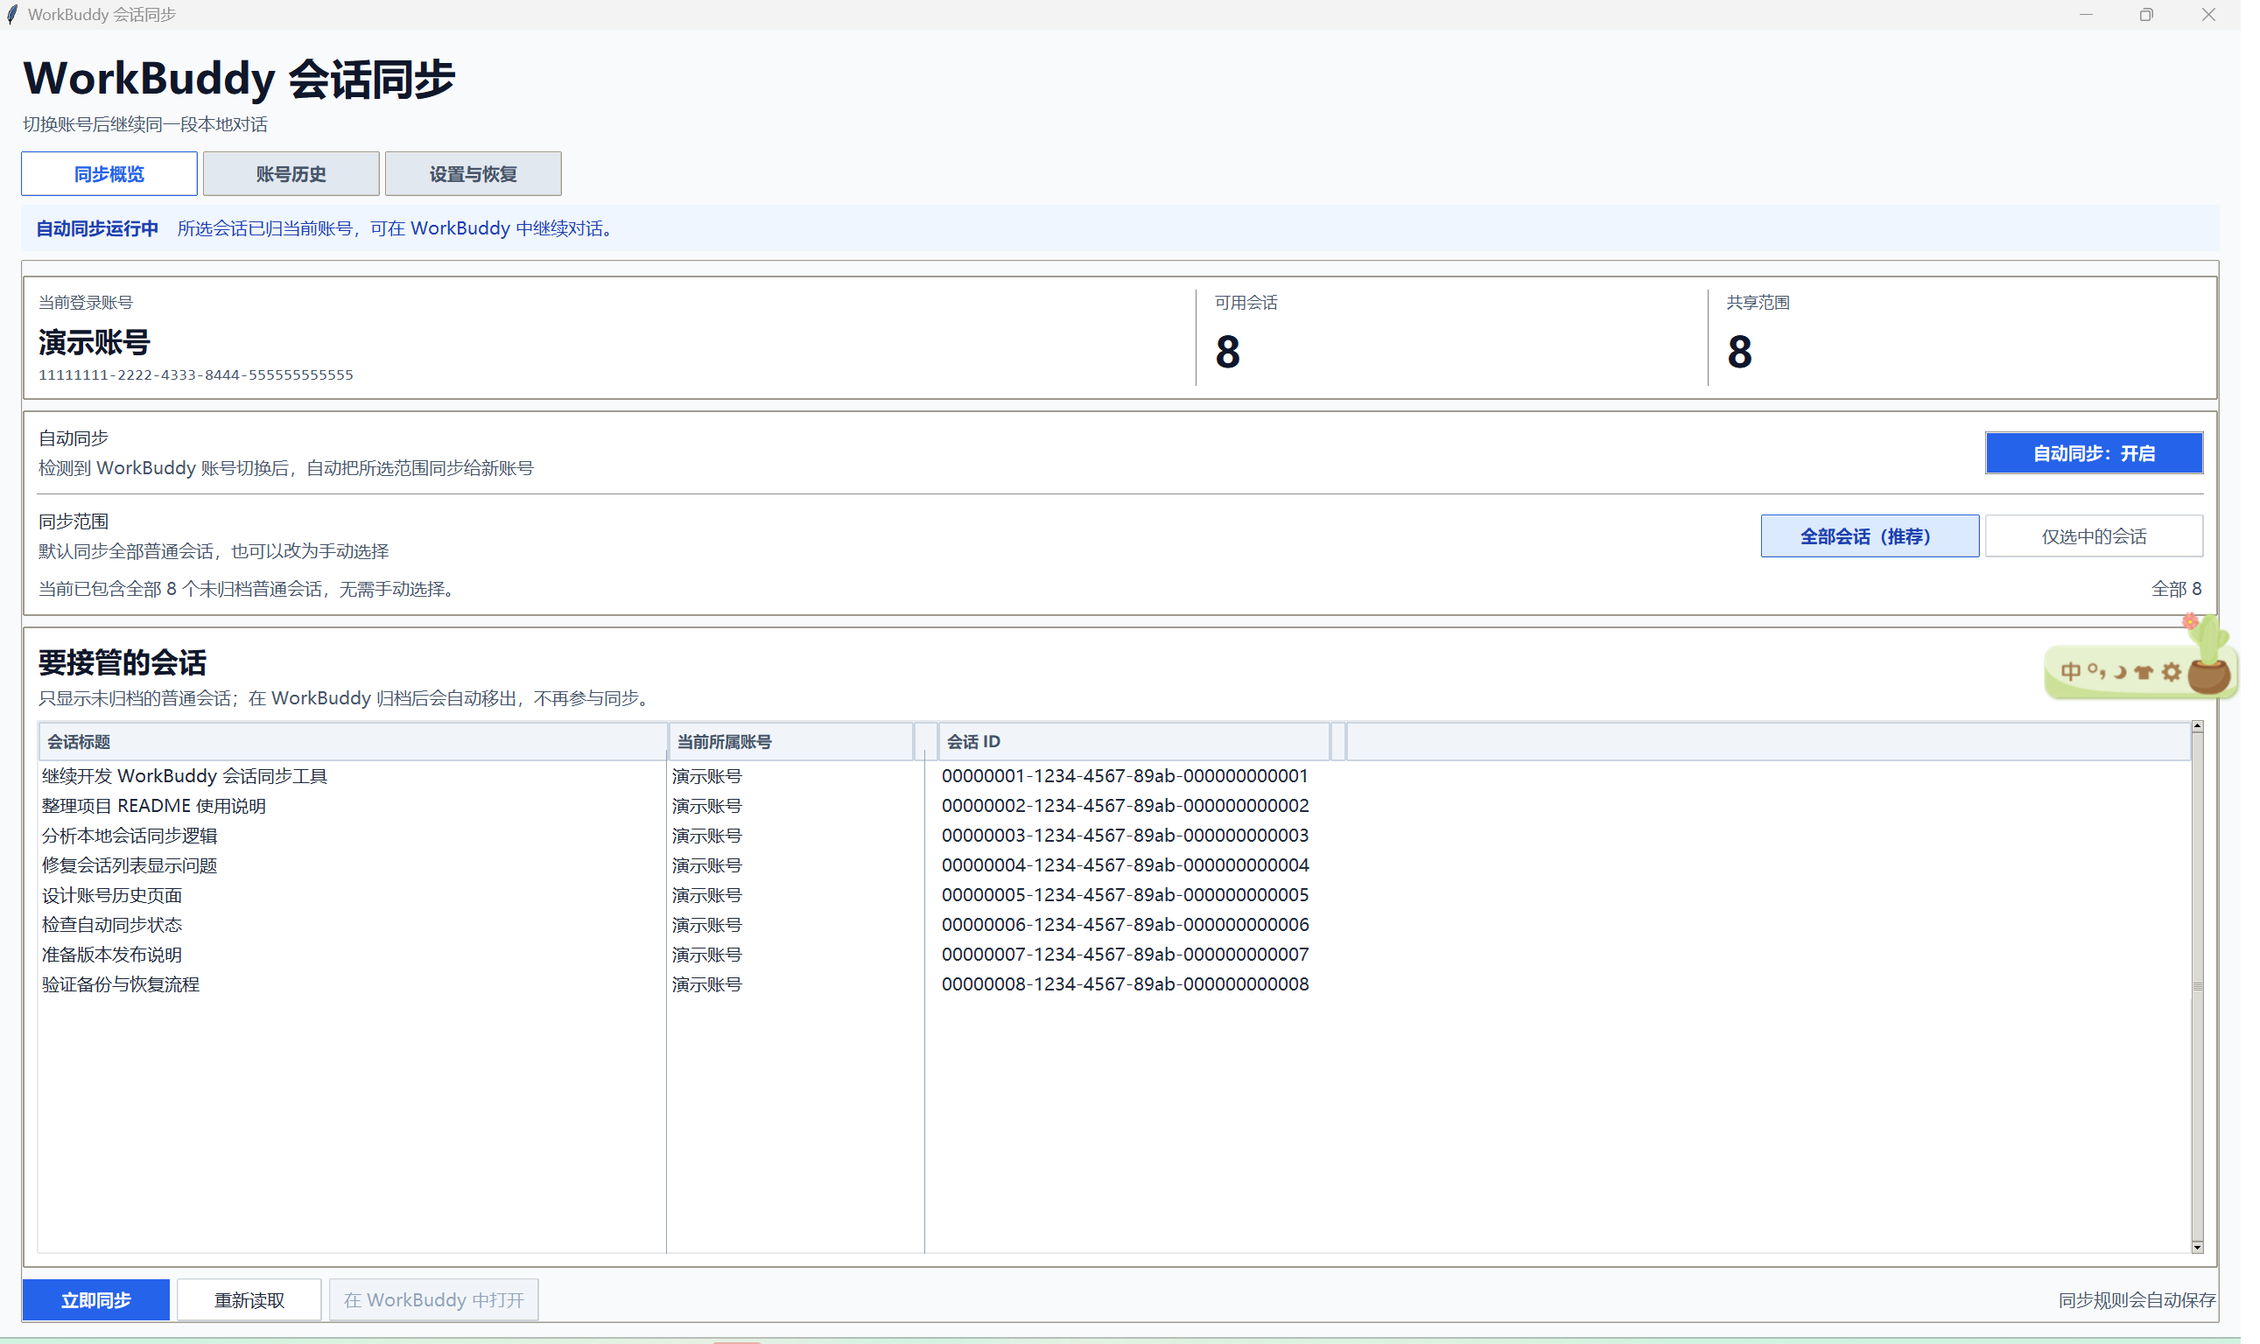
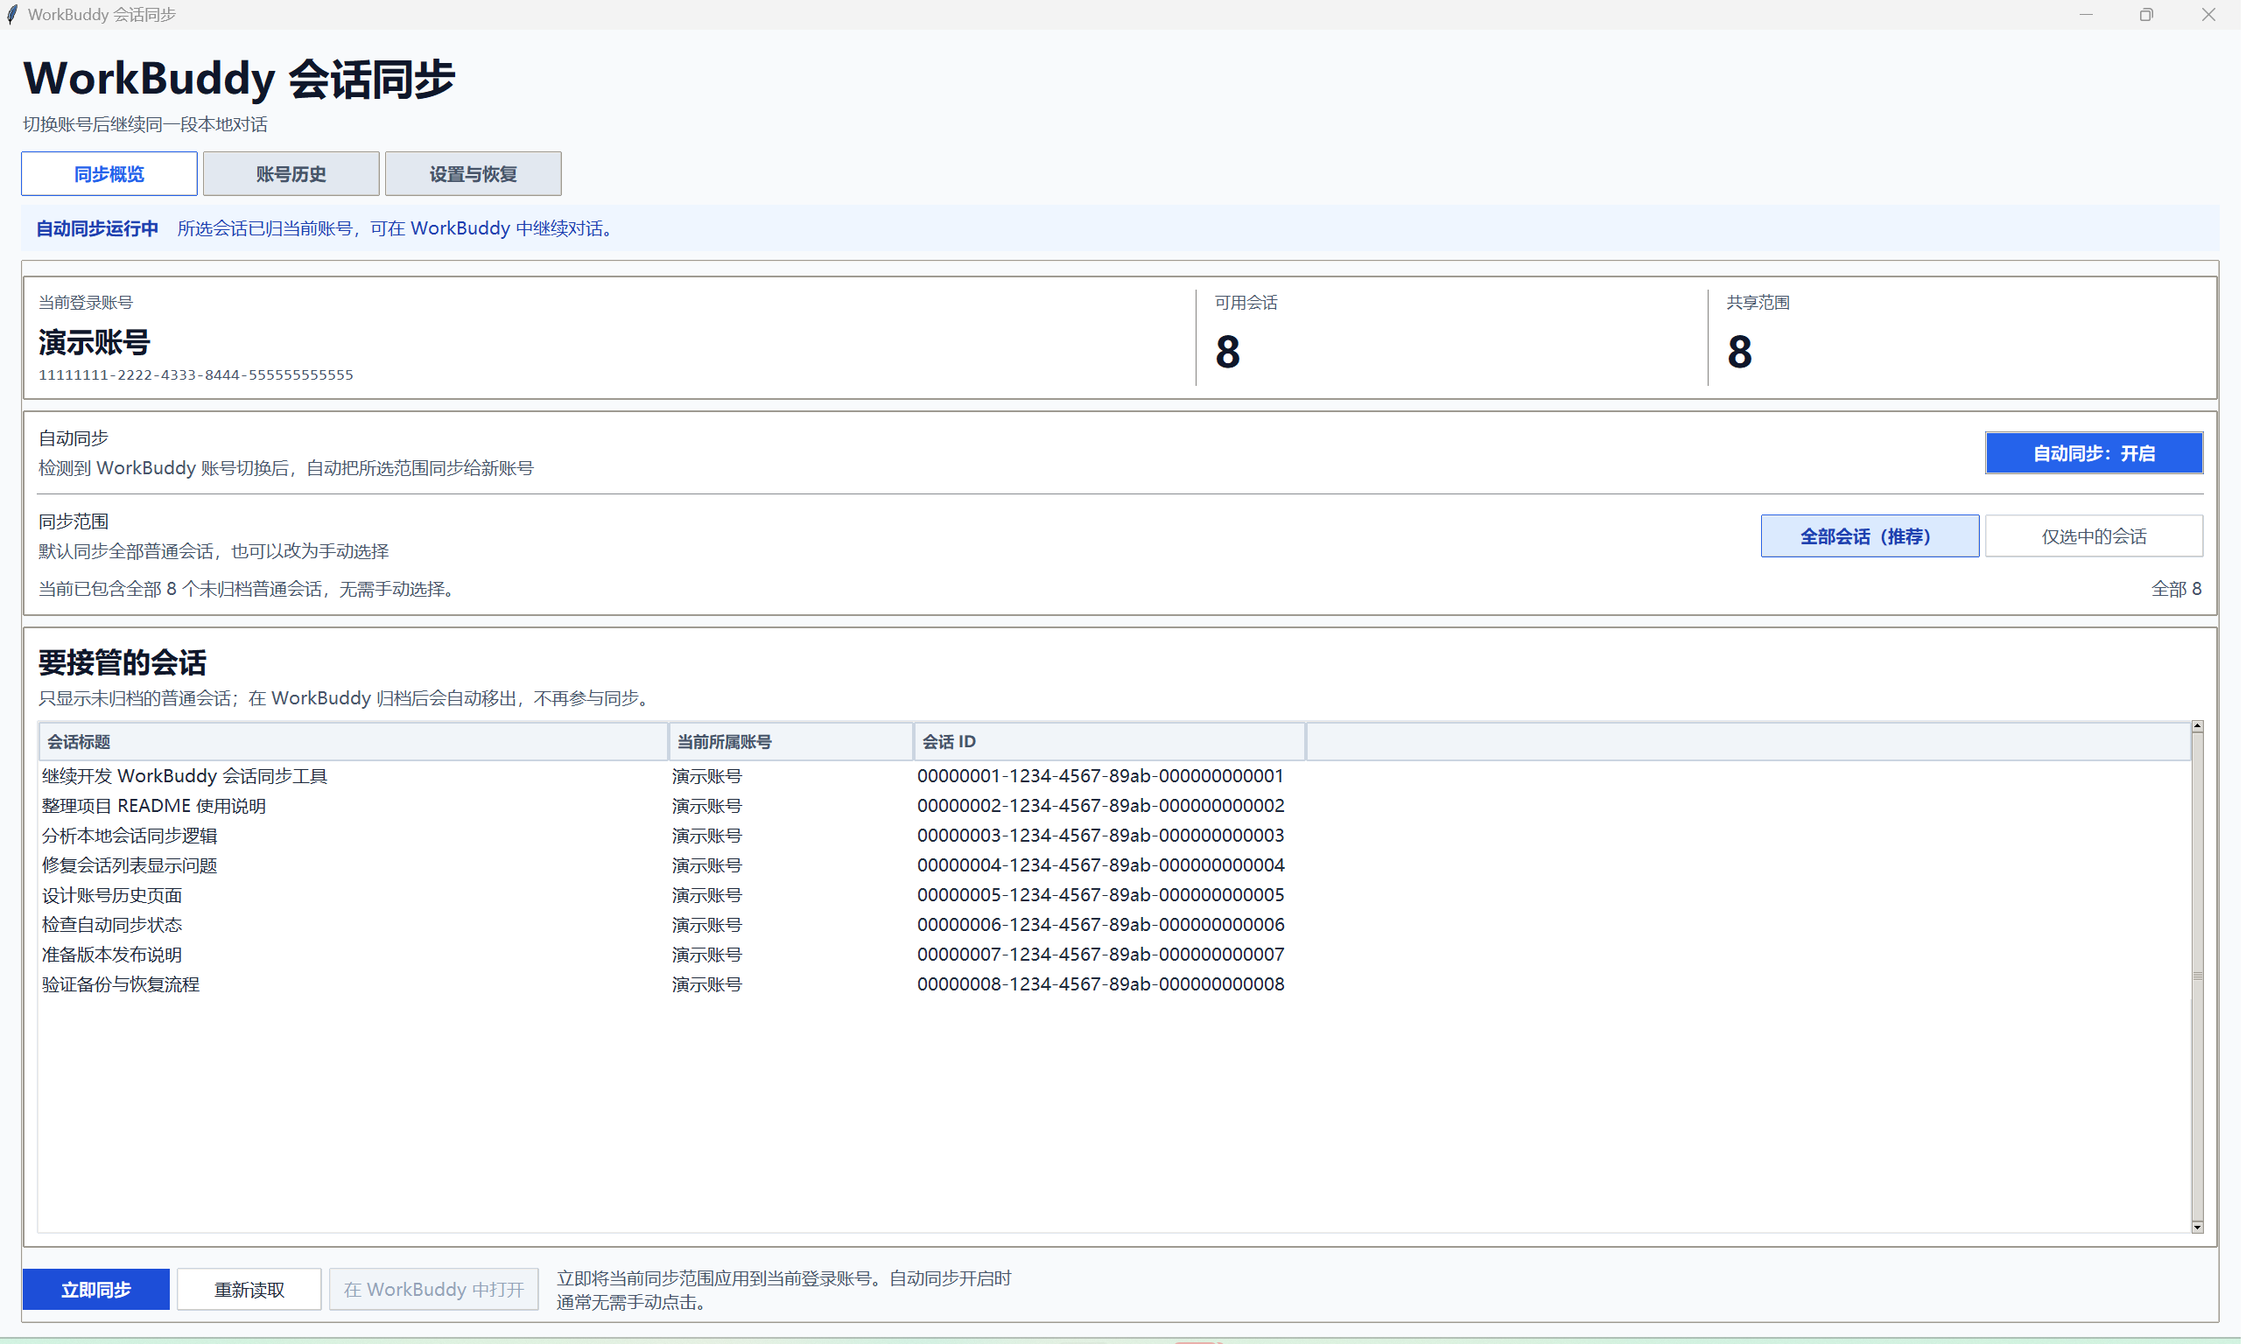
Redesign session table and inline action help

diff --git a/src/workbuddy_sync/desktop_ui.py b/src/workbuddy_sync/desktop_ui.py
@@ -21,7 +21,7 @@ BORDER = '#E2E8F0'
 WARNING = '#B91C1C'
 UI_FONT = 'Microsoft YaHei UI'
 MONO_FONT = 'Consolas'
-TOOLTIP_GAP = 7
+ACTION_HELP_DEFAULT = '鼠标停留在按钮上查看说明 · 同步规则会自动保存'
 
 MESSAGES = {
     'disabled': '自动同步未开启。可以先预览，再同步一次。',
@@ -41,13 +41,6 @@ def short_id(value: str) -> str:
 
 def display_title(value: str | None) -> str:
     return ' '.join(value.split()) if value else '未命名会话'
-
-
-def tooltip_y(anchor_y, anchor_height, tip_height, screen_height):
-    below = anchor_y + anchor_height + TOOLTIP_GAP
-    if below + tip_height <= screen_height:
-        return below
-    return max(0, anchor_y - tip_height - TOOLTIP_GAP)
 
 
 def enable_windows_dpi_awareness():
@@ -107,41 +100,6 @@ class CellTooltip:
             self.tip.destroy()
             self.tip = None
         self.key = None
-
-
-class WidgetTooltip:
-    def __init__(self, widget, text):
-        self.widget = widget
-        self.text = text
-        self.tip = None
-        widget.bind('<Enter>', self.show, add='+')
-        widget.bind('<Leave>', self.hide, add='+')
-        widget.bind('<FocusIn>', self.show, add='+')
-        widget.bind('<FocusOut>', self.hide, add='+')
-        widget.bind('<ButtonPress>', self.hide, add='+')
-
-    def show(self, _event=None):
-        self.hide()
-        self.tip = tk.Toplevel(self.widget)
-        self.tip.wm_overrideredirect(True)
-        self.tip.withdraw()
-        tk.Label(
-            self.tip, text=self.text, background='#0F172A', foreground='#FFFFFF',
-            padx=10, pady=7, justify='left', wraplength=360, font=(UI_FONT, 9),
-        ).pack()
-        self.tip.update_idletasks()
-        x = self.widget.winfo_rootx()
-        y = tooltip_y(
-            self.widget.winfo_rooty(), self.widget.winfo_height(),
-            self.tip.winfo_reqheight(), self.widget.winfo_screenheight(),
-        )
-        self.tip.wm_geometry(f'+{x}+{y}')
-        self.tip.deiconify()
-
-    def hide(self, _event=None):
-        if self.tip is not None:
-            self.tip.destroy()
-            self.tip = None
 
 
 class Window:
@@ -437,8 +395,7 @@ class Window:
         ).grid(row=1, column=0, sticky='w', pady=(4, 10))
         self.tree = ttk.Treeview(
             table_card,
-            columns=(
-                'selected', 'title', 'owner', 'owner_gap', 'id', 'right_pad', 'fill'),
+            columns=('selected', 'title', 'owner', 'id', 'fill'),
             show='headings',
             selectmode='browse', height=8,
         )
@@ -446,9 +403,7 @@ class Window:
             ('selected', '选择', 58, 58, False, 'center'),
             ('title', '会话标题', 500, 180, False, 'w'),
             ('owner', '当前所属账号', 280, 280, False, 'w'),
-            ('owner_gap', '', 28, 28, False, 'center'),
             ('id', '会话 ID', 440, 440, False, 'w'),
-            ('right_pad', '', 18, 18, False, 'center'),
             ('fill', '', 1, 1, False, 'center'),
         ]:
             self.tree.heading(key, text=title, anchor=anchor)
@@ -460,19 +415,12 @@ class Window:
         self.tree.configure(yscrollcommand=scrollbar.set)
         self.tree.bind('<Button-1>', self._on_tree_click, add='+')
         self.tree.bind('<B1-Motion>', self._block_table_resize, add='+')
-        self.tree.bind('<ButtonRelease-1>', self._schedule_table_dividers, add='+')
-        self.tree.bind('<Configure>', self._schedule_table_dividers, add='+')
-        self.table_dividers = [
-            tk.Frame(self.tree, background='#94A3B8', width=1) for _ in range(2)
-        ]
-        self.owner_id_divider = tk.Frame(
-            self.tree, background='#94A3B8', width=1)
-        self.table_dividers.append(self.owner_id_divider)
+        self.tree.bind('<Configure>', self._schedule_table_layout, add='+')
         CellTooltip(self.tree, self._main_tree_tooltip)
 
         actions = ttk.Frame(page, style='App.TFrame')
         actions.grid(row=3, column=0, sticky='ew', pady=(12, 0))
-        actions.columnconfigure(0, weight=1)
+        actions.columnconfigure(1, weight=1)
         action_buttons = ttk.Frame(actions, style='App.TFrame')
         action_buttons.grid(row=0, column=0, sticky='w')
         self.sync_button = ttk.Button(
@@ -488,21 +436,28 @@ class Window:
             style='Secondary.TButton',
         )
         self.open_button.pack(side='left', padx=(8, 0))
-        ttk.Label(
-            actions, text='同步规则会自动保存', style='Subtitle.TLabel',
-        ).grid(row=0, column=1, sticky='e', pady=9)
-        self.action_tooltips = {
-            self.sync_button: WidgetTooltip(
-                self.sync_button,
-                '立即将当前同步范围应用到当前登录账号。自动同步开启时通常无需手动点击。',
-            ),
-            self.refresh_button: WidgetTooltip(
-                self.refresh_button, '重新读取当前账号和会话列表，不会修改会话数据。',
-            ),
-            self.open_button: WidgetTooltip(
-                self.open_button, '打开列表中高亮的会话。按 Esc 可取消高亮。',
-            ),
+        self.action_help = tk.StringVar(value=ACTION_HELP_DEFAULT)
+        self.action_help_label = ttk.Label(
+            actions, textvariable=self.action_help, style='Subtitle.TLabel',
+            anchor='w', justify='left', wraplength=520,
+        )
+        self.action_help_label.grid(
+            row=0, column=1, sticky='ew', padx=(18, 0), pady=7)
+        action_help = {
+            self.sync_button: (
+                '立即将当前同步范围应用到当前登录账号。自动同步开启时通常无需手动点击。'),
+            self.refresh_button: '重新读取当前账号和会话列表，不会修改会话数据。',
+            self.open_button: '打开列表中高亮的会话。按 Esc 可取消高亮。',
         }
+        for button, help_text in action_help.items():
+            button.bind(
+                '<Enter>', lambda _event, text=help_text: self.action_help.set(text), add='+')
+            button.bind(
+                '<FocusIn>', lambda _event, text=help_text: self.action_help.set(text), add='+')
+            button.bind(
+                '<Leave>', lambda _event: self.action_help.set(ACTION_HELP_DEFAULT), add='+')
+            button.bind(
+                '<FocusOut>', lambda _event: self.action_help.set(ACTION_HELP_DEFAULT), add='+')
         self.tree.bind('<<TreeviewSelect>>', self._update_action_states, add='+')
         self.toggle_scope()
 
@@ -677,7 +632,7 @@ class Window:
                 owner_display = owner_name if owner_name else short_id(owner_id)
                 values = (
                     '☑' if session_id in self.selected_sessions else '☐',
-                    display_title(row['title']), owner_display, '', session_id, '', '',
+                    display_title(row['title']), owner_display, session_id, '',
                 )
                 if self.tree.exists(session_id):
                     self.tree.item(session_id, values=values)
@@ -762,10 +717,9 @@ class Window:
 
     def toggle_scope(self):
         columns = (
-            ('title', 'owner', 'owner_gap', 'id', 'right_pad', 'fill')
+            ('title', 'owner', 'id', 'fill')
             if self.all_sessions.get()
-            else (
-                'selected', 'title', 'owner', 'owner_gap', 'id', 'right_pad', 'fill')
+            else ('selected', 'title', 'owner', 'id', 'fill')
         )
         self.tree.configure(displaycolumns=columns)
         is_all = self.all_sessions.get()
@@ -782,7 +736,7 @@ class Window:
             self.select_all_button.pack(side='left')
             self.clear_selection_button.pack(side='left', padx=(6, 0))
         self._update_scope_summary(len(self.tree.get_children()))
-        self._schedule_table_dividers()
+        self._schedule_table_layout()
 
     def set_scope(self, all_sessions):
         self.all_sessions.set(all_sessions)
@@ -869,12 +823,11 @@ class Window:
         if self.tree.identify_region(event.x, event.y) == 'separator':
             return 'break'
 
-    def _schedule_table_dividers(self, _event=None):
+    def _schedule_table_layout(self, _event=None):
         self.root.after_idle(self._layout_session_table)
 
     def _layout_session_table(self):
         self._fit_session_table_columns()
-        self._position_table_dividers()
 
     def _fit_session_metadata_columns(self):
         font = tkfont.nametofont('TkDefaultFont', root=self.root)
@@ -900,31 +853,6 @@ class Window:
         fill_width = max(1, available_width - fixed_width - title_width)
         self.tree.column('title', width=title_width)
         self.tree.column('fill', width=fill_width)
-
-    def _position_table_dividers(self):
-        displayed = self.tree.tk.splitlist(self.tree.cget('displaycolumns'))
-        body_y = 34
-        body_height = max(1, self.tree.winfo_height() - body_y)
-        x = 0
-        standard_positions = []
-        owner_id_position = None
-        for column in displayed:
-            width = int(self.tree.column(column, 'width'))
-            if column in ('selected', 'title'):
-                standard_positions.append(x + width)
-            elif column == 'owner_gap':
-                owner_id_position = x + width // 2
-            x += width
-        for divider, position in zip(self.table_dividers[:2], standard_positions):
-            divider.place(
-                x=position - 1, y=body_y, width=1, height=body_height)
-            divider.lift()
-        for divider in self.table_dividers[len(standard_positions):2]:
-            divider.place_forget()
-        if owner_id_position is not None:
-            self.owner_id_divider.place(
-                x=owner_id_position, y=body_y, width=1, height=body_height)
-            self.owner_id_divider.lift()
 
     def _clear_session_highlight(self, _event=None):
         cleared = False

diff --git a/tests/test_app.py b/tests/test_app.py
@@ -153,7 +153,7 @@ def test_gui_navigation_has_stable_size_and_toggle_controls_have_no_x(sandbox, t
     assert window.all_scope_button.winfo_class() == 'TButton'
     assert window.all_scope_button.cget('style') == 'SegmentSelected.TButton'
     assert window.tree.cget('displaycolumns') == (
-        'title', 'owner', 'owner_gap', 'id', 'right_pad', 'fill')
+        'title', 'owner', 'id', 'fill')
 
     window.show_page(1)
 
@@ -285,7 +285,7 @@ def test_overview_scope_and_session_selection_save_immediately(sandbox, tk_root)
     assert api().Settings.load(path).session_ids == []
 
 
-def test_session_table_shows_full_ids_and_visible_column_dividers(sandbox, tk_root):
+def test_session_table_shows_full_ids_with_native_column_boundaries(sandbox, tk_root):
     gui = importlib.import_module('workbuddy_sync.gui')
     home, auth = setup_data(sandbox)
     session_id = '01e3e2ed-6cf0-4dba-a9a7-1234567890ab'
@@ -295,16 +295,10 @@ def test_session_table_shows_full_ids_and_visible_column_dividers(sandbox, tk_ro
     settings(sandbox, home, auth).save(path)
 
     window = gui.Window(tk_root, path)
-    tk_root.update_idletasks()
-    window._position_table_dividers()
 
     assert window.tree.set(session_id, 'id') == session_id
     assert int(window.tree.column('id', 'width')) >= 440
-    assert int(window.tree.column('right_pad', 'width')) >= 16
-    assert len(window.table_dividers) == 3
-    assert window.table_dividers[0].place_info()
-    assert window.owner_id_divider.place_info()
-    assert int(window.owner_id_divider.place_info()['y']) >= 30
+    assert tuple(window.tree.cget('displaycolumns'))[:3] == ('title', 'owner', 'id')
 
 
 def test_session_owner_column_shows_the_full_account_name(sandbox, tk_root):
@@ -320,22 +314,19 @@ def test_session_owner_column_shows_the_full_account_name(sandbox, tk_root):
     assert window.tree.set('s1', 'owner') == account_name
 
 
-def test_owner_and_session_id_columns_have_a_divided_gap(sandbox, tk_root):
+def test_owner_and_session_id_columns_are_adjacent_and_left_aligned(sandbox, tk_root):
     gui = importlib.import_module('workbuddy_sync.gui')
     home, auth = setup_data(sandbox)
     path = sandbox / 'settings.json'
     settings(sandbox, home, auth).save(path)
 
     window = gui.Window(tk_root, path)
-    tk_root.update_idletasks()
-    window._position_table_dividers()
 
     displayed = tuple(window.tree.cget('displaycolumns'))
     owner_index = displayed.index('owner')
-    assert displayed[owner_index + 1:owner_index + 3] == ('owner_gap', 'id')
-    assert int(window.tree.column('owner_gap', 'width')) >= 24
-    assert window.owner_id_divider.place_info()
-    assert window.owner_id_divider.cget('background') == '#94A3B8'
+    assert displayed[owner_index + 1] == 'id'
+    assert str(window.tree.heading('owner', 'anchor')) == 'w'
+    assert str(window.tree.heading('id', 'anchor')) == 'w'
 
 
 def test_session_metadata_columns_use_left_aligned_fixed_headers(sandbox, tk_root):
@@ -351,8 +342,7 @@ def test_session_metadata_columns_use_left_aligned_fixed_headers(sandbox, tk_roo
     assert window.tree.column('owner', 'stretch') == 0
     assert window.tree.column('id', 'stretch') == 0
     displayed = tuple(window.tree.cget('displaycolumns'))
-    assert displayed[displayed.index('id'):displayed.index('id') + 2] == (
-        'id', 'right_pad')
+    assert displayed[displayed.index('id'):displayed.index('id') + 2] == ('id', 'fill')
 
 
 def test_session_table_caps_title_width_and_uses_trailing_fill_space(sandbox, tk_root):
@@ -418,19 +408,11 @@ def test_action_buttons_show_help_on_hover(sandbox, tk_root):
     for button, help_text in expected.items():
         button.event_generate('<Enter>')
         tk_root.update()
-        tooltip = window.action_tooltips[button]
-        assert tooltip.tip is not None
-        assert tooltip.tip.winfo_children()[0].cget('text').startswith(help_text)
+        assert window.action_help.get().startswith(help_text)
+        assert window.action_help_label.winfo_manager() == 'grid'
         button.event_generate('<Leave>')
         tk_root.update()
-        assert tooltip.tip is None
-
-
-def test_tooltip_flips_above_when_below_would_leave_the_screen():
-    desktop_ui = importlib.import_module('workbuddy_sync.desktop_ui')
-
-    assert desktop_ui.tooltip_y(100, 40, 50, 800) == 147
-    assert desktop_ui.tooltip_y(760, 40, 50, 800) == 703
+        assert window.action_help.get() == '鼠标停留在按钮上查看说明 · 同步规则会自动保存'
 
 
 def test_restored_window_keeps_enough_room_for_the_session_table(sandbox, tk_root):

diff --git a/README.md b/README.md
@@ -120,7 +120,7 @@ flowchart LR
 - 当前准备同步多少个对话。
 - 自动同步是否开启。
 - 每个对话现在属于哪个账号，账号列优先完整显示账号名称。
-- 每个对话的完整会话 ID；账号与会话 ID 使用左对齐的只读列，中间保留留白和清晰分隔线。
+- 每个对话的完整会话 ID；标题、账号和会话 ID 使用连续的左对齐只读列，仅由原生表头边界区分。
 
 ### 账号历史
 
@@ -145,8 +145,8 @@ flowchart LR
 | 恢复归属 | 从备份恢复某次同步涉及的账号归属 | 是 |
 | 打开备份目录 | 打开本工具保存备份的位置 | 否 |
 
-鼠标停留在「立即同步」「重新读取」或「在 WorkBuddy 中打开」按钮上时，会显示该按钮的详细说明。
-窗口最大化且按钮靠近屏幕底部时，说明会自动显示在按钮上方，避免超出屏幕。
+鼠标停留在「立即同步」「重新读取」或「在 WorkBuddy 中打开」按钮上时，按钮右侧会直接显示完整说明；
+使用键盘把焦点移到按钮上也会显示。说明固定在窗口内部，不会被屏幕边缘或任务栏裁切。
 在会话列表中高亮一条会话后，可以按 `Esc` 取消高亮。
 
 窗口还原时会优先压缩会话标题列，保证账号名称和完整会话 ID 不被挤出窗口；窗口最大化时，
